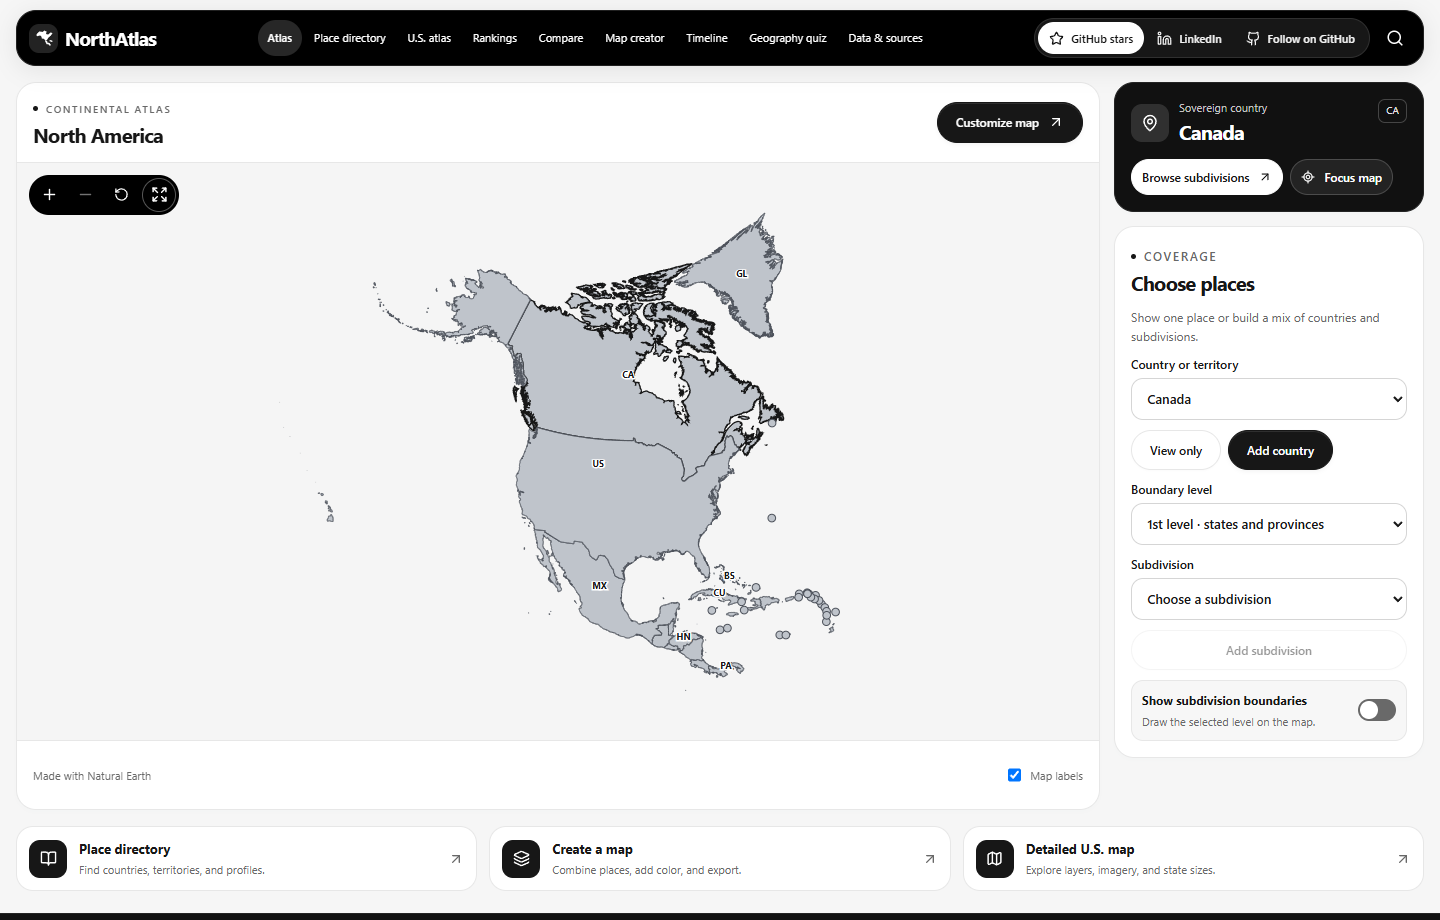
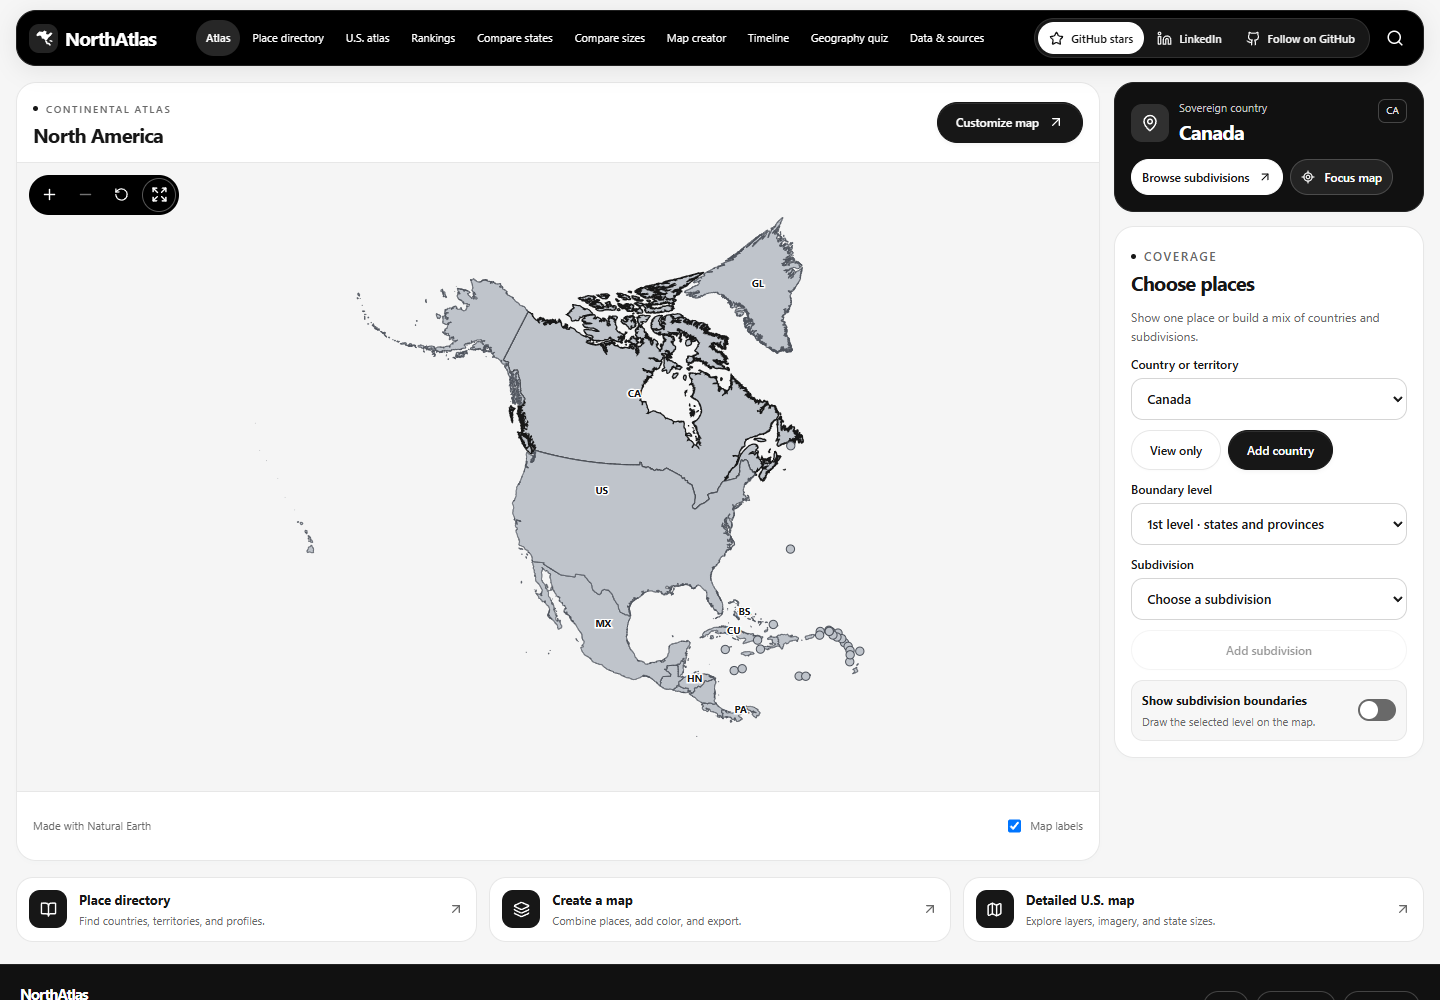
feat: add state size navigation and illustrated atlas feature tour

diff --git a/components/navigation.tsx b/components/navigation.tsx
@@ -2,7 +2,7 @@
 
 import Link from "next/link";
 import { usePathname, useRouter } from "next/navigation";
-import { ArrowRight, ArrowUpRight, BarChart3, BookOpen, Database, Github, GraduationCap, Heart, History, House, Layers3, Linkedin, Map, Menu, Search, Star, Columns2, X } from "lucide-react";
+import { ArrowRight, ArrowUpRight, BarChart3, BookOpen, Database, Github, GraduationCap, Heart, History, House, Layers3, Linkedin, Map, Menu, Scan, Search, Star, Columns2, X } from "lucide-react";
 import { useEffect, useRef, useState } from "react";
 import { atlasById, atlasPlaces } from "@/lib/north-america";
 import { metrics } from "@/lib/metrics";
@@ -14,13 +14,14 @@ export const nav = [
   { href: "/us", title: "U.S. atlas", icon: Map },
   { href: "/rankings", title: "Rankings", icon: BarChart3 },
   { href: "/compare", title: "Compare states", icon: Columns2 },
+  { href: "/compare-size", title: "Compare sizes", icon: Scan },
   { href: "/creator", title: "Map creator", icon: Layers3 },
   { href: "/timeline", title: "Timeline", icon: History },
   { href: "/quiz", title: "Geography quiz", icon: GraduationCap },
   { href: "/data", title: "Data & sources", icon: Database },
 ];
 
-const quickDestinations = nav.filter(({ href }) => ["/places", "/us", "/compare"].includes(href));
+const quickDestinations = nav.filter(({ href }) => ["/places", "/us", "/compare", "/compare-size"].includes(href));
 
 const github = "https://github.com/PRABHMANNAT/united-states-territories-mapper-geoatlas";
 

diff --git a/app/workspace.css b/app/workspace.css
@@ -719,6 +719,10 @@ button:active:not(:disabled), .primary-button:active, .quiet-button:active { tra
 .atlas-expanded .atlas-sidebar:not([hidden]) { pointer-events: auto; }
 
 .size-comparison { display: flex; flex-direction: column; min-height: 0; }
+.size-page-board { padding: 0; overflow: hidden; }
+.size-page-board .size-comparison-options { border-top: 0; padding: 18px 22px; }
+.size-page-board .size-canvas { height: clamp(320px, 55dvh, 720px); }
+.size-page-board .size-comparison-caption { padding: 14px 22px; }
 .atlas-expanded .size-comparison { flex: 1; overflow: auto; }
 .size-comparison-options {
   display: grid;
@@ -813,6 +817,9 @@ button:active:not(:disabled), .primary-button:active, .quiet-button:active { tra
   .header-social a { padding-inline: 7px; }
   .header-social a span { display: none; }
 }
+@media (min-width: 1101px) and (max-width: 1199px) {
+  .header-inner nav a { padding-inline: 6px; }
+}
 @media (max-width: 800px) {
   .continent-studio { grid-template-columns: minmax(0, 1fr); }
   .continent-board { position: static; }
@@ -834,7 +841,7 @@ button:active:not(:disabled), .primary-button:active, .quiet-button:active { tra
 /* Map-first homepage */
 .continental-home { padding-top: 16px; }
 .header-destinations { display: none; }
-@media (min-width: 900px) and (max-width: 979px) {
+@media (min-width: 900px) and (max-width: 1100px) {
   .header-social a { padding-inline: 7px; }
   .header-social a span { display: none; }
 }

diff --git a/tests/e2e/atlas.spec.ts b/tests/e2e/atlas.spec.ts
@@ -326,6 +326,18 @@ test("changes map palettes and opens a fullscreen map with keyboard exit", async
 });
 
 test("compares Alaska and Texas at one scale and moves the overlay in fullscreen", async ({ page }, testInfo) => {
+  await page.goto("/");
+  const menu = page.getByRole("button", { name: "Open navigation", exact: true });
+  if (await menu.isVisible()) await menu.click();
+  await page.getByRole("navigation", { name: "Main navigation", exact: true }).getByRole("link", { name: "Compare sizes", exact: true }).click();
+  await expect(page).toHaveURL(/\/compare-size$/);
+  await expect(page.getByRole("heading", { name: "How big is your state?" })).toBeVisible();
+  const directOverlay = page.getByRole("group", { name: /^Move Alaska/ });
+  await expect(directOverlay).toBeVisible();
+  const directOrigin = await directOverlay.getAttribute("transform");
+  await directOverlay.press("ArrowRight");
+  await expect(directOverlay).not.toHaveAttribute("transform", directOrigin!);
+  expect(await page.evaluate(() => document.documentElement.scrollWidth <= innerWidth)).toBe(true);
   await page.goto("/us");
   await page.getByRole("combobox", { name: "Jump to a jurisdiction" }).selectOption("AK");
   await page.getByRole("button", { name: "Compare size", exact: true }).click();

diff --git a/app/compare-size/page.tsx b/app/compare-size/page.tsx
@@ -1,0 +1,20 @@
+import { PageHeading } from "@/components/page-heading";
+import StateSizeComparison from "@/components/state-size-comparison";
+import { observations, regions } from "@/lib/data";
+
+export const metadata = {
+  title: "Compare state sizes",
+  description: "Drag one U.S. state over another at the same scale. Compare all 50 states with area-preserving outlines, zoom, and land area ratios.",
+};
+
+export default function CompareSizePage() {
+  return <div className="shell inner-page size-page">
+    <PageHeading label="DRAG & COMPARE" title="How big is your state?">
+      Choose two states, then drag the blue outline over the gray one to compare their size. Zoom in for a closer look.
+    </PageHeading>
+    <section className="panel size-page-board" aria-label="Compare state sizes">
+      <StateSizeComparison regions={regions.filter((region) => region.type === "state")}
+        observations={observations.filter((row) => row.metric === "land")} initialId="AK"/>
+    </section>
+  </div>;
+}

diff --git a/README.md b/README.md
@@ -12,11 +12,86 @@
   <a href="#run-locally"><img alt="Runs locally without API keys" src="https://img.shields.io/badge/setup-no%20API%20keys-171717?style=flat-square"></a>
 </p>
 
-<p align="center"><a href="#make-your-first-map">Make a map</a> · <a href="#run-locally">Run locally</a> · <a href="#maps-and-data">Explore the data</a></p>
+<p align="center"><a href="#feature-tour">Feature tour</a> · <a href="#drag-one-state-over-another">Compare sizes</a> · <a href="#make-your-first-map">Make a map</a> · <a href="#run-locally">Run locally</a> · <a href="#maps-and-data">Explore the data</a></p>
 
 What does Alaska look like over Texas at the same scale? What would a map of the United States, Alberta, and Yukon look like? NorthAtlas lets you explore both ideas in a browser, then export the map you make.
 
 ![NorthAtlas showing the North American map and boundary controls](docs/screenshots/northatlas-overview.png)
+
+## Feature tour
+
+Explore North America at continental, national, and local scales. Read about a place, compare it with another, make a map, or test what you know.
+
+| Feature | Try it |
+| --- | --- |
+| **North America + detailed U.S. maps** | Explore countries, territories, states, provinces, and available local divisions. Switch to the U.S. atlas for statistical layers, satellite imagery, terrain, and waterways. |
+| **Wikipedia-style place information** | Read sourced chapters, view images, and explore demographics, geography, history, economy, government, and culture in the detailed U.S. profiles. |
+| **Drag-and-overlay size comparison** | Move any of the 50 U.S. states over another using area-preserving outlines at one scale. |
+| **State statistics comparison** | Compare two to four U.S. jurisdictions with aligned reference years, visual bars, CSV export, and share links. |
+| **Map creator** | Combine countries and subdivisions, paint with presets or custom colors, and export PNG or SVG. |
+| **Geography quiz** | Play eight-question rounds on outlines, map locations, capitals, land area, population, or Census facts. |
+
+### Drag one state over another
+
+Choose **Compare sizes** in the top navbar to open `/compare-size`. Pick a state in **Move this state**, choose a reference in **Compare against**, and drag the blue outline over the gray one. Zoom both outlines together, reset the view, or use the arrow keys to move the selected outline. On phones, the link is in the navigation menu.
+
+The screenshot shows **Alaska over Texas** after dragging. The outlines use locally centered equal-area projections at a shared scale, so this is an area comparison rather than a comparison of differently scaled atlas insets. The displayed ratio uses **land area**, which excludes water. The same tool is also available through **Compare size** in the detailed U.S. map, including fullscreen mode.
+
+![Alaska dragged over Texas at the same scale, with state selectors, zoom controls, and a 2.19-times land-area ratio](docs/screenshots/state-size-overlay.png)
+
+### From the continent to local divisions
+
+Use the homepage to view a single country, all North America, or a custom combination such as **United States + Alberta + Yukon**. Choose a **Boundary level** and turn on **Show subdivision boundaries** to reveal available detail.
+
+| Level | What it shows | Bundled coverage |
+| --- | --- | --- |
+| **1st level** | States, provinces, territories, and equivalent divisions | 434 first-level subdivisions across the continental dataset |
+| **2nd level** | Counties, districts, and equivalents | 17 countries and territories; includes the U.S. county layer |
+| **3rd level** | Local divisions, municipalities, and equivalents | Eight countries and territories; Canada is shown below |
+
+**Coverage is source-dependent.** The bundled United States layer stops at level 2; there is no nationwide U.S. level-3 layer. Level names and vintages vary by country. The interface lists the available layers and their sources. Local divisions can be searched, selected, combined, and colored; level-2 and level-3 units do not have encyclopedia profiles.
+
+![Detailed U.S. atlas with states, territory insets, map controls, and a selected region profile](docs/screenshots/us-atlas.png)
+
+<details>
+<summary><strong>See U.S. county boundaries and a North American level-3 map</strong></summary>
+
+**United States · level 2:** county and county-equivalent boundaries from the bundled 2018 source.
+
+![United States with second-level county boundaries visible and the boundary selector set to level 2](docs/screenshots/us-county-boundaries.png)
+
+**Canada · level 3:** 5,162 local divisions in the bundled 2016 source. This is an example of North American third-level coverage, not a claim of complete continent-wide coverage.
+
+![Canada with third-level local divisions visible and the boundary selector set to level 3](docs/screenshots/north-america-level-three.png)
+
+</details>
+
+### Read the story behind a place
+
+The detailed U.S. profiles offer a **Wikipedia-style reading experience**: chapter navigation, history and geography, population, economy and housing, government, culture, images, related places, and a collapsible references section. Statistical cards identify their source and year; population and community charts make trends easier to read.
+
+North American first-level subdivisions and territories also have sourced profiles through **Place directory**, with content varying by available coverage. Country pages organize their subdivisions. These are independent atlas pages, with Wikipedia excerpts and media credited to their original contributors.
+
+![Iowa profile showing sourced population metrics, a population time series, and community indicators](docs/screenshots/encyclopedia-demographics.png)
+
+<details>
+<summary><strong>See the encyclopedia-style history view</strong></summary>
+
+![Iowa history chapter with readable paragraphs and navigation to geography, population, economy, government, culture, and references](docs/screenshots/encyclopedia-history.png)
+
+</details>
+
+### Compare states by the numbers
+
+Choose **Compare states** for population, land area, density, economic indicators, and other available statistics. Add up to four U.S. jurisdictions, inspect differences against the first, download a CSV, or share the comparison. Each metric row uses one reference year and leaves unavailable observations visible as missing. Country comparisons use the bundled World Bank indicators.
+
+![California, Texas, and New York compared side by side with population, area, density, and visual comparison bars](docs/screenshots/compare-states.png)
+
+### Test your geography
+
+Choose **Geography quiz**, select one of six challenges and a difficulty, and play an eight-question round. Identify a state by silhouette or map location, name capitals, or compare population and land area. Get immediate feedback, track your score and streak, and share your result.
+
+![An active geography quiz with a state silhouette, four answer choices, and score tracking](docs/screenshots/geography-quiz.png)
 
 ## Make your first map
 
@@ -38,10 +113,11 @@ After starting the app, try the [U.S. + Alaska + Alberta + Yukon map](http://loc
 | `/map` | Explore the detailed U.S. atlas with satellite and terrain imagery, statistical layers, waterways, and draggable state outlines for same-scale comparisons. |
 | `/rankings` | Rank U.S. jurisdictions by metric and year. |
 | `/compare` | Compare two to four U.S. jurisdictions side by side, or find similar economies in World Bank data. |
+| `/compare-size` | Drag one of the 50 U.S. state outlines over another at the same scale, with zoom, reset, and keyboard movement. |
 | `/timeline` and `/quiz` | Explore changes in population and GDP or practice geography. |
 | `/data` | Find downloadable datasets, metric definitions, and API examples. |
 
-Choose **Compare states** in the top navbar to open the comparison tool. On phones, open the navigation menu first. Press **Ctrl/Cmd + K** to find a place or tool. The [U.S. creator](http://localhost:3000/creator?scope=us) supports legends, undo and redo, saved projects, and JSON or CSV export.
+Choose **Compare states** for statistics or **Compare sizes** for draggable outlines in the top navbar. On phones, open the navigation menu first. Press **Ctrl/Cmd + K** to find a place or tool. The [U.S. creator](http://localhost:3000/creator?scope=us) supports legends, undo and redo, saved projects, and JSON or CSV export.
 
 ## Run locally
 
@@ -55,6 +131,8 @@ pnpm dev
 ```
 
 Open [localhost:3000](http://localhost:3000). The bundled maps, profiles, statistics, and export tools work without a database or API keys. Satellite and terrain imagery need an internet connection and use USGS by default. [USGS The National Map](https://www.usgs.gov/faqs/what-are-base-map-services-or-urls-used-national-map)
+
+Prefer port **5166**? Run `pnpm dev --port 5166` and open [localhost:5166](http://localhost:5166).
 
 ## Maps and data
 
@@ -85,5 +163,7 @@ pnpm test:e2e
 ```
 
 To refresh continental data, run `node scripts/north-america.mjs` for countries and first-level outlines, `node scripts/north-america-admin.mjs` for local boundaries, and `node scripts/north-america-articles.mjs` for encyclopedia introductions.
+
+To refresh the feature screenshots, start the app and run `node scripts/readme-screenshots.mjs`. It captures actual interactions, including dragging Alaska over Texas. Set `ATLAS_SCREENSHOT_URL` for a different local port and optionally `STATEATLAS_E2E_CHANNEL=msedge` to use installed Edge.
 
 Made with love by [Prabhmannat Singh](https://github.com/PRABHMANNAT). If NorthAtlas helps you make a map or discover something new, [give it a star on GitHub](https://github.com/PRABHMANNAT/united-states-territories-mapper-geoatlas).
